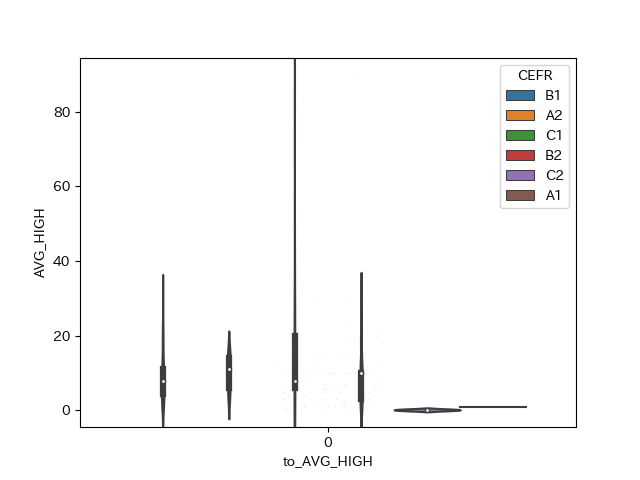
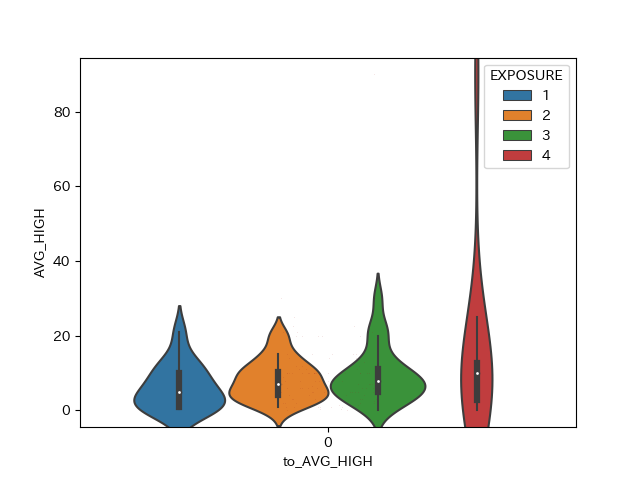
finalize compare_images

Changed region(s): [[0.1875, 0.125, 0.9062, 0.9062]]

diff --git a/Python_files/Categorical.py b/Python_files/Categorical.py
@@ -145,3 +145,35 @@ make_ratio_compare_graph(df, "USEFUL", "CEFR")
 
 make_ratio_compare_graph(df, "EXPOSURE", "CEFR")
 #%%
+# EXPERIENCE EXCEPT SCHOOL
+make_ratio_compare_graph(df, "ENGLISH OF FAMILY", "EXPERIENCE EXCEPT SCHOOL")
+
+make_violinplot(df, "AVG_JUNIOR_HIGH", "EXPERIENCE EXCEPT SCHOOL")
+
+make_violinplot(df, "AVG_HIGH", "EXPERIENCE EXCEPT SCHOOL")
+
+make_ratio_compare_graph(df, "USEFUL", "EXPERIENCE EXCEPT SCHOOL")
+
+make_ratio_compare_graph(df, "EXPOSURE", "EXPERIENCE EXCEPT SCHOOL")
+#%%
+# ENGLISH OF FAMILY
+make_violinplot(df, "AVG_JUNIOR_HIGH", "ENGLISH OF FAMILY")
+
+make_violinplot(df, "AVG_HIGH", "ENGLISH OF FAMILY")
+
+make_ratio_compare_graph(df, "USEFUL", "ENGLISH OF FAMILY")
+
+make_ratio_compare_graph(df, "EXPOSURE", "ENGLISH OF FAMILY")
+#%%
+# USEFUL
+make_violinplot(df, "AVG_JUNIOR_HIGH", "USEFUL")
+
+make_violinplot(df, "AVG_HIGH", "USEFUL")
+
+make_ratio_compare_graph(df, "EXPOSURE", "USEFUL")
+#%%
+# EXPOSURE
+make_violinplot(df, "AVG_JUNIOR_HIGH", "EXPOSURE")
+
+make_violinplot(df, "AVG_HIGH", "EXPOSURE")
+#%%
